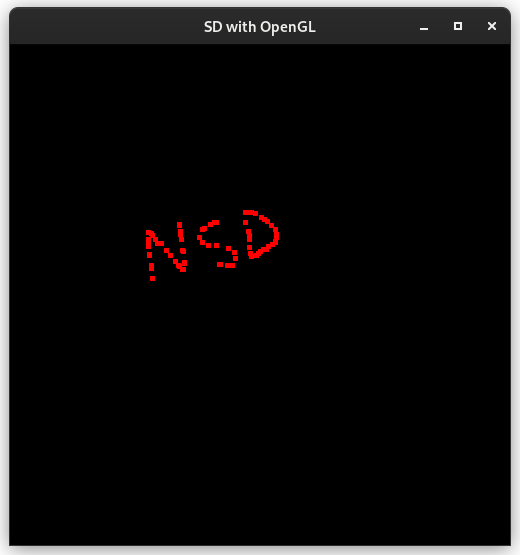
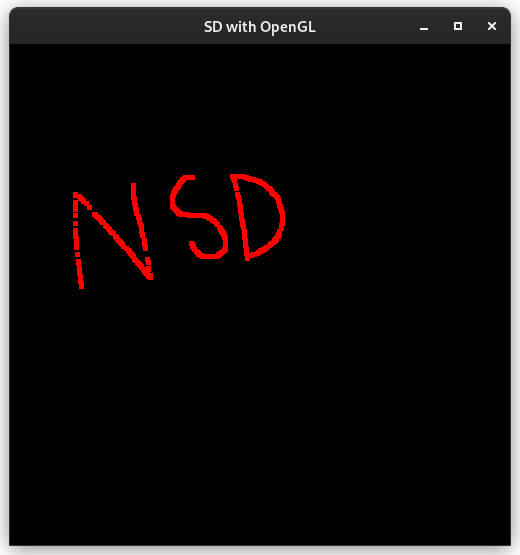
added mouse stroke for paint:old=click each pixel

Changed region(s): [[0.1231, 0.3063, 0.5538, 0.5207], [0.3385, 0.3063, 0.3692, 0.3369]]

diff --git a/paint/paint.cpp b/paint/paint.cpp
@@ -18,8 +18,23 @@ void keyboard(unsigned char key, int x, int y) {
   }
 }
 
+void glutMotion(int x, int y) {
+  cout << "x: " << x << " y: " << y << endl;
+  float H = glutGet(GLUT_WINDOW_HEIGHT);
+  float W = glutGet(GLUT_WINDOW_WIDTH);
+  float X = ((float)x - W / 2) / (W / 2);
+  float Y = ((H - (float)y) - H / 2) / (H / 2);
+
+  glColor3f(1.0, 0, 0);
+  glPointSize(5);
+  glBegin(GL_POINTS);
+  glVertex2f(X, Y);
+  glEnd();
+  glFlush();
+}
+
 void mouse(int button, int state, int x, int y) {
-  if (button == GLUT_LEFT_BUTTON && state == GLUT_DOWN) {
+  if (0 and button == GLUT_LEFT_BUTTON && state == GLUT_DOWN) {
     float H = glutGet(GLUT_WINDOW_HEIGHT);
     float W = glutGet(GLUT_WINDOW_WIDTH);
     float X = ((float)x - W / 2) / (W / 2);
@@ -60,6 +75,8 @@ int main (int argc, char** argv) {
   glutKeyboardFunc(keyboard);
   //glutMouseFunc sets the mouse callback function.
   glutMouseFunc(mouse);
+  //glutMotionFunc sets the motion callback function.
+  glutMotionFunc(glutMotion);
   //glutDisplayFunc is called when the window needs to be redrawn.
   glutDisplayFunc(renderFunction);
   //glutMainLoop enters the GLUT event processing loop.
